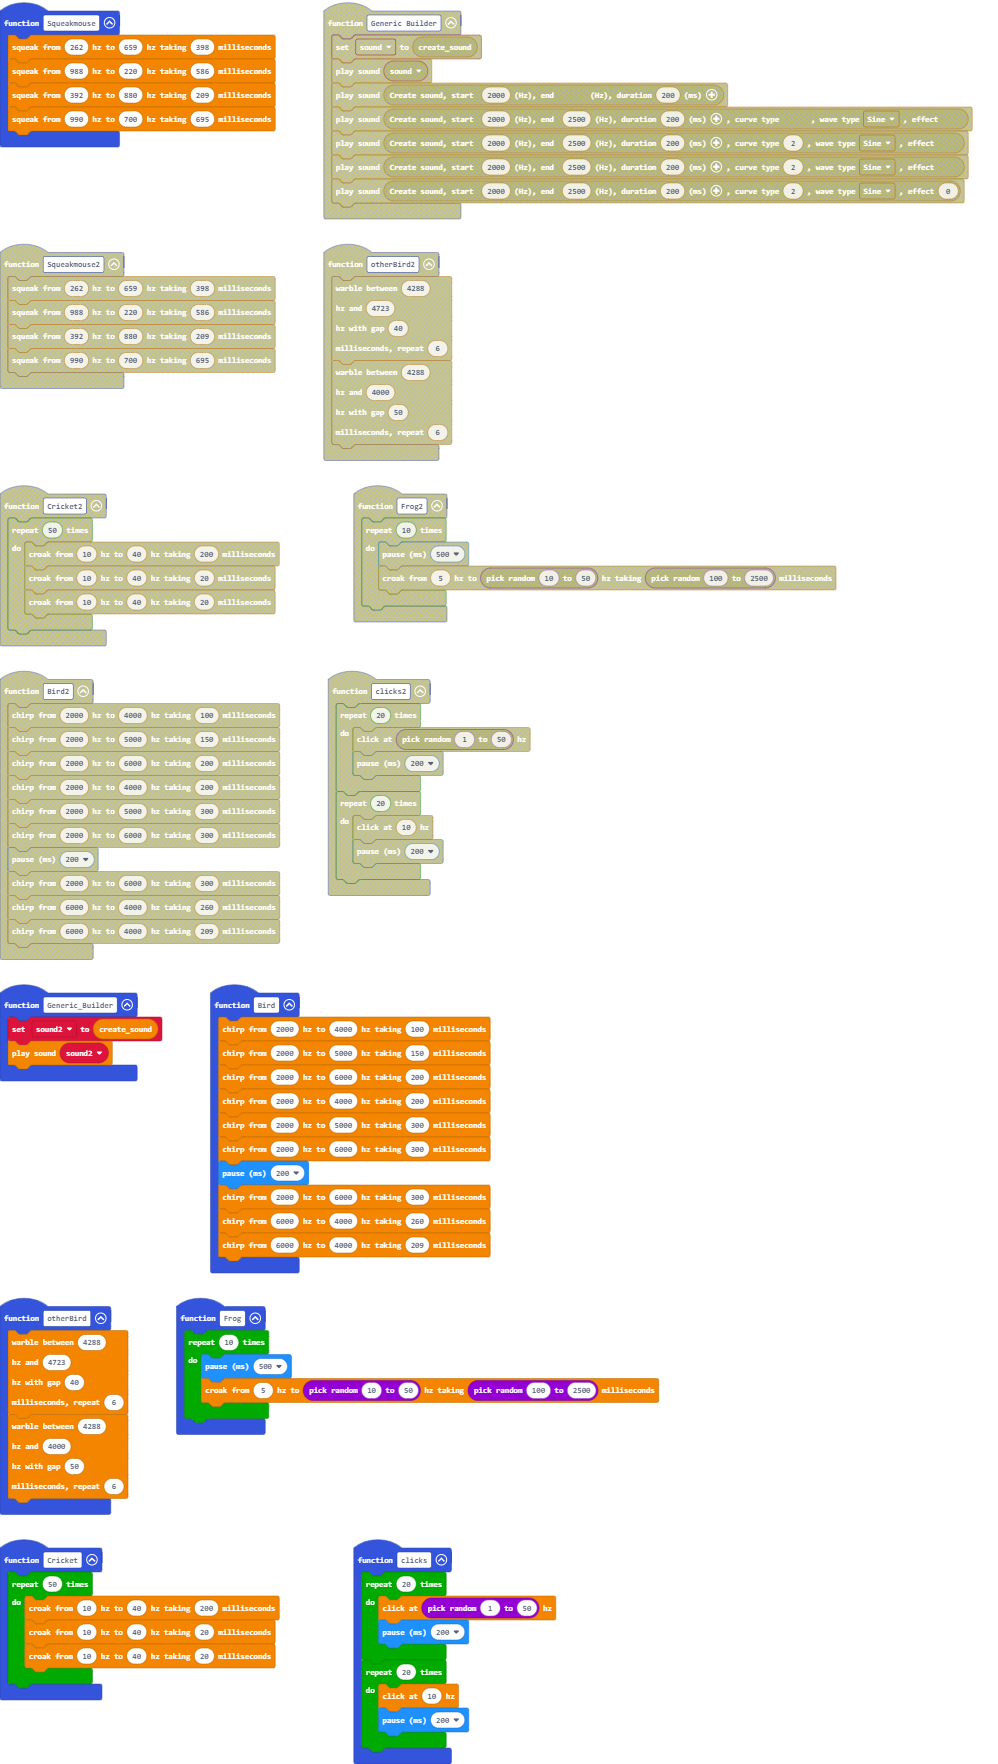
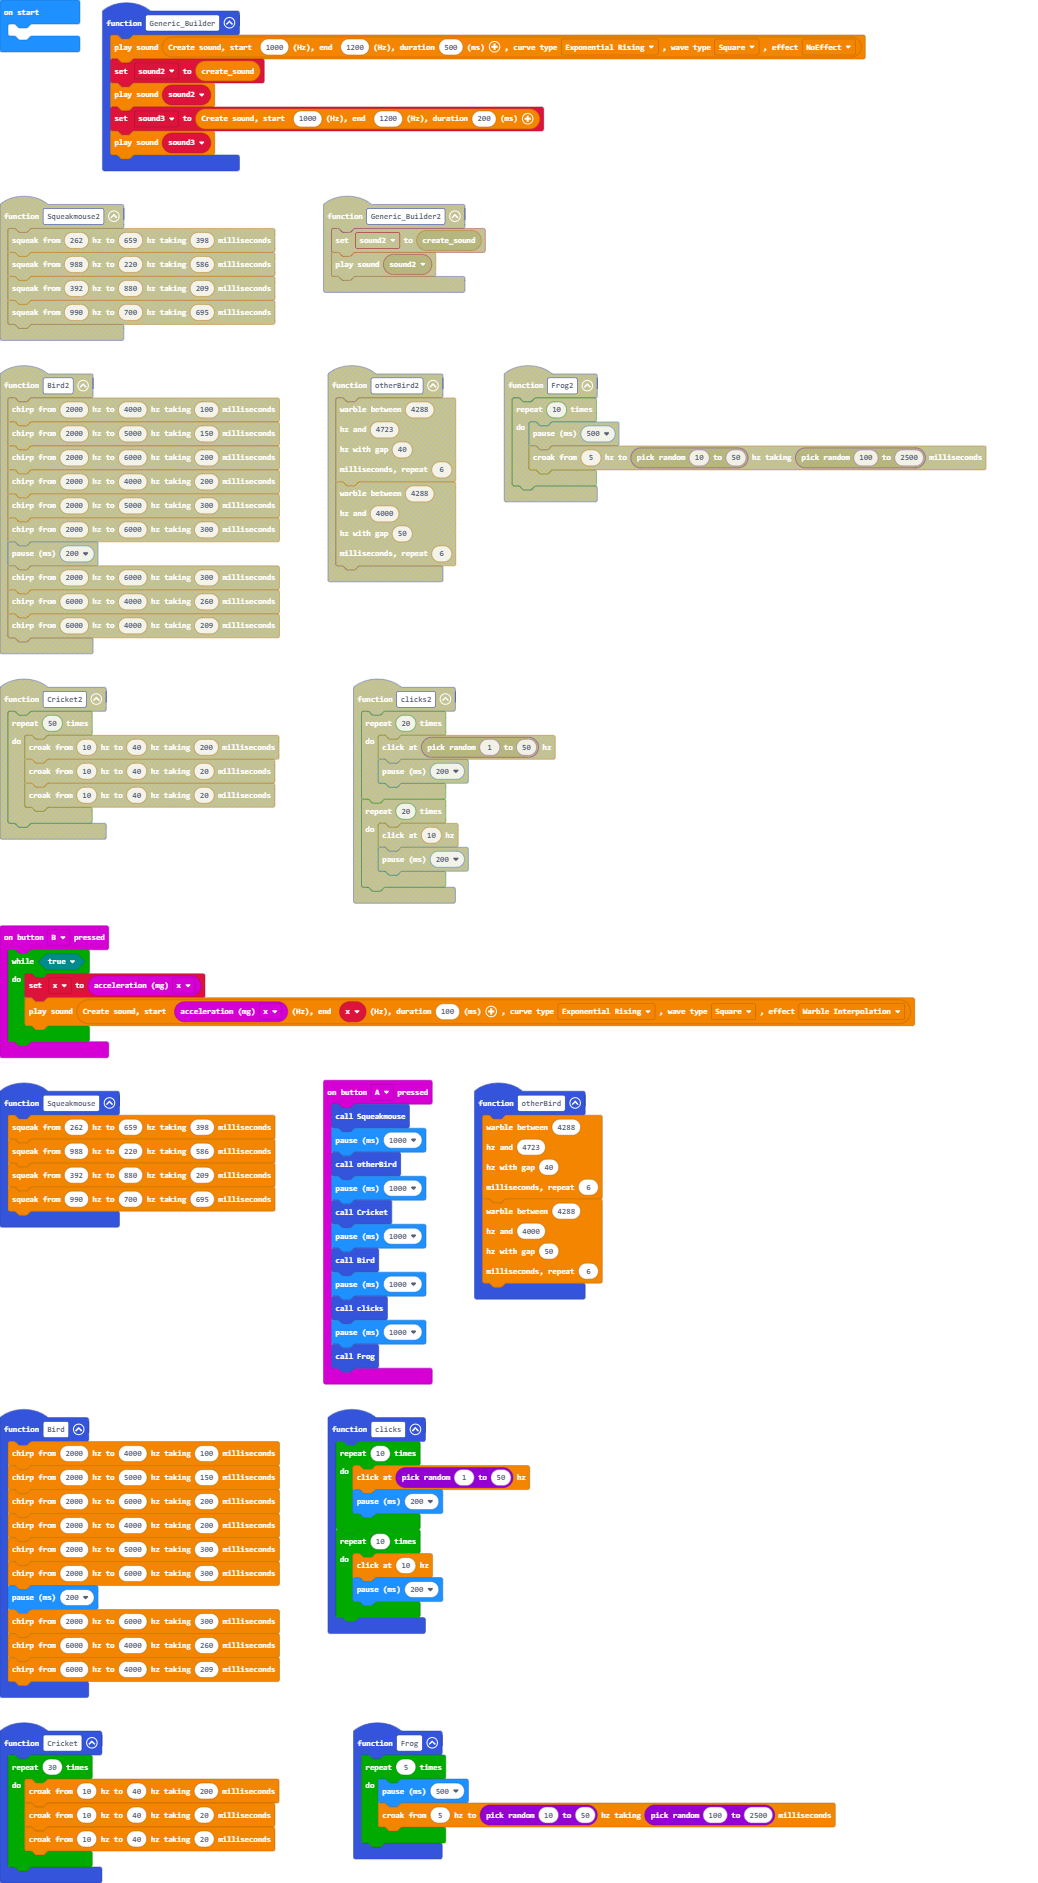
Generic Block Builder

diff --git a/custom.ts b/custom.ts
@@ -21,6 +21,38 @@ enum WaveType
 }
 
 /**
+  * Curve Types
+  */
+enum CurveType
+{
+    //% block="NoCurve"
+    None = "0",
+    //% block="Linear"
+    Linear = "1",
+    //% block="Curve"
+    Curve = "2",
+    //% block="Exponential Rising"
+    ExpRising = "5",
+    //% block="Exponential Falling"
+    ExpFalling = "6"
+}
+
+/**
+  * Effect Types
+  */
+enum EffectType
+{
+    //% block="NoEffect"
+    None = "0",
+    //% block="Frequency Vibrato"
+    FreqVibrato = "1",
+    //% block="Volume Vibrato"
+    VolumeVibrato = "2",
+    //% block="Warble Interpolation"
+    WarbleInterpolation = "3"
+}
+
+/**
  * Prototype Sound blocks
  */
 //% weight=105 color=#F38500 icon=""  block="Sound (V2 Only)"
@@ -44,7 +76,6 @@ namespace sound{
         while(dur.length < 4){dur = "0" + dur;}
         new SoundExpression("31023" + start + dur + "02440"+ end + "08881023012800000000240000000000000000000000000000").play();
     }
-
 
     /**
      * Warble - oscillate between two frequencies some number of times during a variable period of time.
@@ -112,8 +143,7 @@ namespace sound{
         if(freq_1 > freq_2){direction = "06"}
         new SoundExpression("31023" + f1 + dur + "02" + "440"+ f2 + "08881023" + "0128" + "00000000240000000000000000000000000000").play();
     }
-
-
+    
     /**
      * Click - short click sound
      * @param note pitch of the tone to play in Hertz (Hz), eg: Note.C
@@ -130,9 +160,7 @@ namespace sound{
         new SoundExpression("3" + "1023" + f1 + "0050" + "02" + "440"+ f2 + "08881023" + "0032" + "0000000024"+"0000000000000000000000000000").play();
     }
 
-
     //for hiss - only take one param then repeat X times and goto frequency that is +-Var at random each time to make a hissing sound
-
 
     export class Sound{
 
@@ -142,6 +170,8 @@ namespace sound{
         curveType : string;
         waveType : string;
         effect : string;
+        fxParam : string;
+        fxSteps : string;
 
         constructor(){
             this.startFreq = "2000";
@@ -150,13 +180,14 @@ namespace sound{
             this.curveType = "02";
             this.waveType = "3";
             this.effect = "00";
+            this.fxParam  = "1500";
+            this.fxSteps = "1500";
         }
 
         playSound(){
-            new SoundExpression(this.waveType + "1023" + this.startFreq + this.duration + this.curveType + "440"+ this.endFreq + "08881023" + "0032" + this.effect + "00000024"+"0000000000000000000000000000").play();
+            new SoundExpression(this.waveType + "1023" + this.startFreq + this.duration + this.curveType + "440"+ this.endFreq + "08881023" + "0032" + this.effect + "00000024"+"00000000000000000000" + this.fxParam + this.fxSteps).play();
         }
     }
-
 
     /**
      * create Sound Generic Block
@@ -177,35 +208,24 @@ namespace sound{
     //% curveType.min=0 curveType.max=6 curveType.defl=2
     //% waveType.min=0 waveType.max=4 waveType.defl=3
     //% effect.min=0 effect.max=3 effect.defl=0
-    export function createSound(freq1 : number = 2000, freq2 : number = 9999, duration : number = 200, curveType : number = 2, waveType : WaveType = WaveType.SineWave, effect : number = 0) : Sound{
+    export function createSound(freq1 : number = 2000, freq2 : number = 2500, duration : number = 200, curveType : CurveType = CurveType.Curve, waveType : WaveType = WaveType.SquareWave, effect : EffectType = EffectType.None) : Sound{
         let sound = new Sound();
         let f1 = freq1.toString();
         let f2 = freq2.toString();
         let dur = duration.toString();
-        let ct = null;
-        if (freq2 == 9999){
-            ct = "00";
-        }
-        else{
-            ct = curveType.toString();
-        }
-        let fx = effect.toString();
         while(f1.length < 4){f1 = "0" + f1;}
         while(f2.length < 4){f2 = "0" + f2;}
         while(dur.length < 4){dur = "0" + dur;}
-        while(ct.length < 2){ct = "0" + ct;}
-        while(fx.length < 2){fx = "0" + fx;}
 
         sound.startFreq = f1;
         sound.endFreq = f2;
         sound.duration = dur;
-        sound.curveType = ct;
+        sound.curveType = "0" + curveType;
         sound.waveType = waveType;
-        sound.effect = fx;
+        sound.effect = "0" + effect;
 
         return sound;
     }
-
 
     /**
      * play Sound Block
@@ -226,6 +246,6 @@ namespace sound{
     export function createSoundVar(): Sound {
         return new Sound();
     }
-
-
 }
+
+

diff --git a/main.ts b/main.ts
@@ -1,4 +1,6 @@
 let sound2: sound.Sound = null
+let sound3: sound.Sound = null
+let x = 0
 function Squeakmouse () {
     sound.squeakSound(262, 659, 398)
     sound.squeakSound(988, 220, 586)
@@ -20,14 +22,27 @@ function otherBird () {
     )
 }
 function Cricket () {
-    for (let index = 0; index < 50; index++) {
+    for (let index = 0; index < 30; index++) {
         sound.croakSound(10, 40, 200)
         sound.croakSound(10, 40, 20)
         sound.croakSound(10, 40, 20)
     }
 }
+input.onButtonPressed(Button.A, function () {
+    Squeakmouse()
+    basic.pause(1000)
+    otherBird()
+    basic.pause(1000)
+    Cricket()
+    basic.pause(1000)
+    Bird()
+    basic.pause(1000)
+    clicks()
+    basic.pause(1000)
+    Frog()
+})
 function Frog () {
-    for (let index = 0; index < 10; index++) {
+    for (let index = 0; index < 5; index++) {
         basic.pause(500)
         sound.croakSound(5, randint(10, 50), randint(100, 2500))
     }
@@ -45,15 +60,24 @@ function Bird () {
     sound.chirpSound(6000, 4000, 209)
 }
 function Generic_Builder () {
+    sound.playSound(sound.createSound(1000, 1200, 500, CurveType.ExpRising, WaveType.SquareWave, EffectType.None))
     sound2 = sound.createSoundVar()
     sound.playSound(sound2)
+    sound3 = sound.createSound(1000, 1200, 200)
+    sound.playSound(sound3)
 }
+input.onButtonPressed(Button.B, function () {
+    while (true) {
+        x = input.acceleration(Dimension.X)
+        sound.playSound(sound.createSound(input.acceleration(Dimension.X), x, 100, CurveType.ExpRising, WaveType.SquareWave))
+    }
+})
 function clicks () {
-    for (let index = 0; index < 20; index++) {
+    for (let index = 0; index < 10; index++) {
         sound.clickSound(randint(1, 50))
         basic.pause(200)
     }
-    for (let index = 0; index < 20; index++) {
+    for (let index = 0; index < 10; index++) {
         sound.clickSound(10)
         basic.pause(200)
     }
